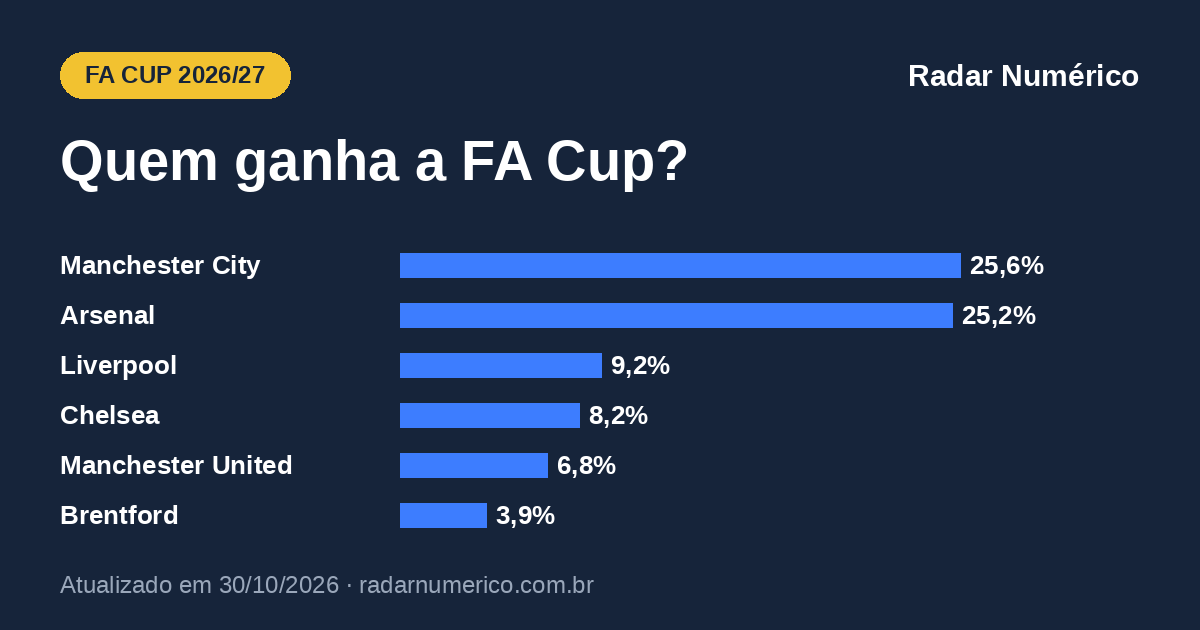
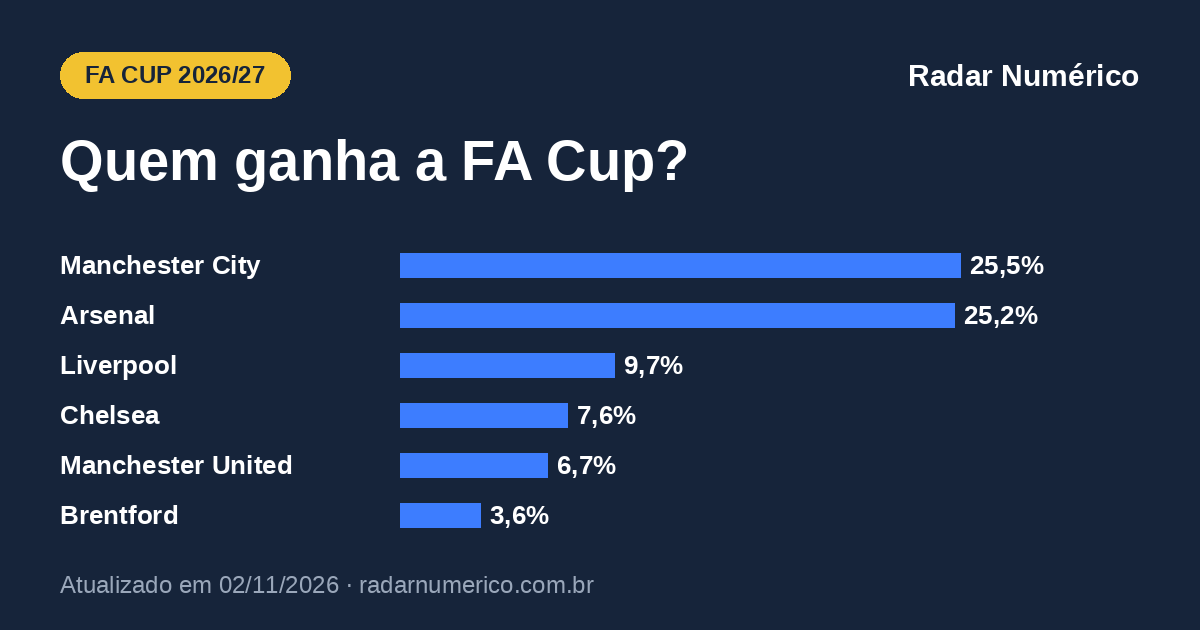
Ranking, ligas e copas europeias: atualizacao semanal 2026-11-02 (fa-cup)
Claude-Session: https://claude.ai/code/session_014c9M3pt9p9Std2Yz9ijZme

diff --git a/futebol/fa-cup/index.html b/futebol/fa-cup/index.html
@@ -13,11 +13,11 @@
 <meta property="og:title" content="FA Cup 2026/27: chances de título de cada time">
 <meta property="og:description" content="Probabilidades da FA Cup 2026/27: chance de cada time chegar às quartas, à semifinal, à final e de ser campeão.">
 <meta property="og:url" content="https://radarnumerico.com.br/futebol/fa-cup/">
-<meta property="og:image" content="https://radarnumerico.com.br/futebol/fa-cup/og.png?v=202610301128">
+<meta property="og:image" content="https://radarnumerico.com.br/futebol/fa-cup/og.png?v=202611021221">
 <meta property="og:image:width" content="1200">
 <meta property="og:image:height" content="630">
 <meta name="twitter:card" content="summary_large_image">
-<script type="application/ld+json">{"@context": "https://schema.org", "@graph": [{"@type": "WebPage", "@id": "https://radarnumerico.com.br/futebol/fa-cup/", "url": "https://radarnumerico.com.br/futebol/fa-cup/", "name": "FA Cup 2026/27: chances de título de cada time", "description": "Probabilidades da FA Cup 2026/27: chance de cada time chegar às quartas, à semifinal, à final e de ser campeão.", "inLanguage": "pt-BR", "dateModified": "2026-10-30T11:28:00-03:00", "isPartOf": {"@type": "WebSite", "name": "Radar Numérico", "url": "https://radarnumerico.com.br/"}, "about": {"@type": "Thing", "name": "FA Cup 2026/27"}}, {"@type": "BreadcrumbList", "itemListElement": [{"@type": "ListItem", "position": 1, "name": "Radar Numérico", "item": "https://radarnumerico.com.br/"}, {"@type": "ListItem", "position": 2, "name": "FA Cup 2026/27: probabilidades", "item": "https://radarnumerico.com.br/futebol/fa-cup/"}]}]}</script>
+<script type="application/ld+json">{"@context": "https://schema.org", "@graph": [{"@type": "WebPage", "@id": "https://radarnumerico.com.br/futebol/fa-cup/", "url": "https://radarnumerico.com.br/futebol/fa-cup/", "name": "FA Cup 2026/27: chances de título de cada time", "description": "Probabilidades da FA Cup 2026/27: chance de cada time chegar às quartas, à semifinal, à final e de ser campeão.", "inLanguage": "pt-BR", "dateModified": "2026-11-02T12:21:00-03:00", "isPartOf": {"@type": "WebSite", "name": "Radar Numérico", "url": "https://radarnumerico.com.br/"}, "about": {"@type": "Thing", "name": "FA Cup 2026/27"}}, {"@type": "BreadcrumbList", "itemListElement": [{"@type": "ListItem", "position": 1, "name": "Radar Numérico", "item": "https://radarnumerico.com.br/"}, {"@type": "ListItem", "position": 2, "name": "FA Cup 2026/27: probabilidades", "item": "https://radarnumerico.com.br/futebol/fa-cup/"}]}]}</script>
 <link rel="icon" type="image/png" href="/favicon.png">
 <link rel="apple-touch-icon" href="/apple-touch-icon.png">
 <link rel="preconnect" href="https://fonts.googleapis.com">
@@ -430,8 +430,8 @@ table.mzf td.bc{color:#fff}
 <header class="pg">
   <div class="kicker">Futebol · Inglaterra</div>
   <h1>FA Cup 2026/27: chances de título de cada time</h1>
-  <div class="selo" id="selo"><span>Atualizado em <b>30/10/2026 às 11h28</b></span><span>fase atual: <b>3ª fase</b></span><span>46 times vivos</span></div>
-  <p class="lede">O favorito ao título da FA Cup é o <b>Manchester City</b>, com 25,6%, seguido por Arsenal (25,2%) e Liverpool (9,2%). Calculamos, para os 46 times vivos, a chance de chegar a cada fase, simulando os jogos já marcados e o sorteio das fases seguintes 20 mil vezes. O campeão ganha vaga na Liga Europa.</p>
+  <div class="selo" id="selo"><span>Atualizado em <b>02/11/2026 às 12h21</b></span><span>fase atual: <b>3ª fase</b></span><span>44 times vivos</span></div>
+  <p class="lede">O favorito ao título da FA Cup é o <b>Manchester City</b>, com 25,5%, seguido por Arsenal (25,2%) e Liverpool (9,7%). Calculamos, para os 44 times vivos, a chance de chegar a cada fase, simulando os jogos já marcados e o sorteio das fases seguintes 20 mil vezes. O campeão ganha vaga na Liga Europa.</p>
 </header>
 
 <section class="g" id="s-trilha">
@@ -489,7 +489,7 @@ table.mzf td.bc{color:#fff}
 
 <div class="metod">
   <p class="marca">Radar Numérico</p>
-  <p id="rodape">Probabilidades da FA Cup 2026/27 atualizadas em 30/10/2026 às 11h28.</p>
+  <p id="rodape">Probabilidades da FA Cup 2026/27 atualizadas em 02/11/2026 às 12h21.</p>
   <p>Como calculamos: um algoritmo desenvolvido pelo economista Augusto Pellegrini estima a força de cada time a partir das cotações de mercado de todos os seus jogos recentes, em todas as competições. Simulamos a copa 20 mil vezes: os jogos já marcados e, depois, o sorteio de cada fase. Empate em jogo único vai à prorrogação e aos pênaltis. Fonte: Radar Numérico.</p>
 </div>
 </main>
@@ -498,7 +498,7 @@ table.mzf td.bc{color:#fff}
 <div id="tip" role="tooltip"></div>
 <div id="toast" role="status"></div>
 <script>
-const D = {"slug":"fa-cup","nome":"FA Cup","gerado_em":"2026-10-30T11:28","tams":[64,32,16,8,4,2,1],"rot":["3ª fase","4ª fase","5ª fase","Quartas","Semifinal","Final","Campeão"],"atual_rot":"3ª fase","cai_antes":"","n_vivos":46,"times":{"Middlesbrough":{"id":"2307","fases":[1.0,0.6554,0.372,0.1693,0.0626,0.0182,0.0052],"campeao":0.0052,"forca":53.4,"cab":false},"Bolton Wanderers":{"id":"2312","fases":[1.0,0.4043,0.1251,0.0263,0.0044,0.0004,0.0],"campeao":0.0,"forca":38.2,"cab":false},"Bradford City":{"id":"2321","fases":[1.0,0.4002,0.1184,0.0264,0.0043,0.0003,0.0],"campeao":0.0,"forca":38.2,"cab":false},"Blackburn Rovers":{"id":"2322","fases":[1.0,0.4256,0.1364,0.0352,0.0059,0.0006,0.0001],"campeao":0.0001,"forca":39.5,"cab":false},"Sheffield United":{"id":"3863","fases":[1.0,0.4737,0.1744,0.049,0.0088,0.0011,0.0001],"campeao":0.0001,"forca":42.3,"cab":false},"Bristol City":{"id":"2328","fases":[1.0,0.5235,0.2207,0.0687,0.0176,0.0027,0.0006],"campeao":0.0006,"forca":45.4,"cab":false},"Oxford United":{"id":"2329","fases":[1.0,0.4097,0.1288,0.028,0.0044,0.0002,0.0],"campeao":0.0,"forca":38.5,"cab":false},"Coventry City":{"id":"2330","fases":[1.0,0.5949,0.2928,0.1115,0.0329,0.0065,0.0009],"campeao":0.0009,"forca":49.4,"cab":false},"Cardiff City":{"id":"2331","fases":[1.0,0.4987,0.1968,0.0587,0.0129,0.0022,0.0001],"campeao":0.0001,"forca":43.6,"cab":false},"Brentford":{"id":"2333","fases":[1.0,0.7954,0.5702,0.3656,0.2062,0.098,0.0394],"campeao":0.0394,"forca":63.1,"cab":false},"Ipswich":{"id":"2336","fases":[1.0,0.622,0.327,0.1378,0.0454,0.0121,0.0022],"campeao":0.0022,"forca":51.0,"cab":false},"Wolverhampton":{"id":"2337","fases":[1.0,0.5607,0.2595,0.0938,0.0249,0.0046,0.0004],"campeao":0.0004,"forca":47.1,"cab":false},"Wrexham":{"id":"3875","fases":[1.0,0.512,0.2142,0.0674,0.0149,0.0026,0.0002],"campeao":0.0002,"forca":44.6,"cab":false},"Bournemouth":{"id":"2342","fases":[1.0,0.76,0.5247,0.3128,0.1565,0.0658,0.024],"campeao":0.024,"forca":60.5,"cab":false},"Watford":{"id":"2344","fases":[1.0,0.4853,0.1819,0.0506,0.0094,0.001,0.0001],"campeao":0.0001,"forca":42.7,"cab":false},"Portsmouth":{"id":"2345","fases":[1.0,0.4188,0.1348,0.0324,0.0063,0.0008,0.0001],"campeao":0.0001,"forca":39.3,"cab":false},"Millwall":{"id":"2347","fases":[1.0,0.4575,0.1606,0.0404,0.0066,0.0009,0.0001],"campeao":0.0001,"forca":41.1,"cab":false},"Burnley":{"id":"2352","fases":[1.0,0.5055,0.2016,0.0635,0.0146,0.0022,0.0006],"campeao":0.0006,"forca":44.0,"cab":false},"Chelsea":{"id":"2354","fases":[1.0,0.8331,0.6447,0.4543,0.285,0.163,0.0819],"campeao":0.0819,"forca":66.8,"cab":false},"Manchester United":{"id":"2356","fases":[1.0,0.8305,0.6352,0.4329,0.2668,0.1454,0.0676],"campeao":0.0676,"forca":65.9,"cab":false},"Swansea City":{"id":"2358","fases":[1.0,0.4334,0.1478,0.036,0.0062,0.0008,0.0001],"campeao":0.0001,"forca":40.1,"cab":false},"Stoke City":{"id":"2359","fases":[1.0,0.4856,0.187,0.053,0.0106,0.0017,0.0001],"campeao":0.0001,"forca":43.0,"cab":false},"Aston Villa":{"id":"2361","fases":[1.0,0.7443,0.4985,0.285,0.1411,0.0567,0.0175],"campeao":0.0175,"forca":59.5,"cab":false},"West Bromwich Albion":{"id":"2363","fases":[1.0,0.4733,0.1743,0.0469,0.0085,0.0009,0.0001],"campeao":0.0001,"forca":42.2,"cab":false},"Sunderland":{"id":"2364","fases":[1.0,0.6885,0.4141,0.2099,0.0832,0.0272,0.0081],"campeao":0.0081,"forca":55.5,"cab":false},"West Ham":{"id":"2365","fases":[1.0,0.6773,0.3967,0.1938,0.0729,0.0226,0.0064],"campeao":0.0064,"forca":54.9,"cab":false},"Tottenham":{"id":"2366","fases":[1.0,0.7593,0.5134,0.3019,0.1512,0.0624,0.0198],"campeao":0.0198,"forca":60.3,"cab":false},"Stockport County":{"id":"3904","fases":[1.0,0.4315,0.1488,0.0352,0.0063,0.0008,0.0001],"campeao":0.0001,"forca":40.5,"cab":false},"Charlton Athletic":{"id":"2390","fases":[1.0,0.4004,0.1235,0.0262,0.0036,0.0002,0.0],"campeao":0.0,"forca":38.1,"cab":false},"Fulham":{"id":"2392","fases":[1.0,0.7222,0.4558,0.2427,0.1061,0.0367,0.0121],"campeao":0.0121,"forca":57.2,"cab":false},"Birmingham":{"id":"2393","fases":[1.0,0.5828,0.2738,0.1001,0.0305,0.0062,0.0011],"campeao":0.0011,"forca":48.5,"cab":false},"Leeds":{"id":"2394","fases":[1.0,0.7349,0.4775,0.2636,0.1217,0.0468,0.0144],"campeao":0.0144,"forca":58.6,"cab":false},"Nottingham Forest":{"id":"2395","fases":[1.0,0.7046,0.4293,0.2207,0.0945,0.0316,0.0089],"campeao":0.0089,"forca":56.3,"cab":false},"Norwich":{"id":"2411","fases":[1.0,0.5187,0.2179,0.0694,0.0151,0.0019,0.0003],"campeao":0.0003,"forca":45.0,"cab":false},"Derby County":{"id":"1162","fases":[1.0,0.4374,0.1416,0.0355,0.0066,0.0006,0.0001],"campeao":0.0001,"forca":39.9,"cab":false},"Queens Park Rangers":{"id":"1163","fases":[1.0,0.4654,0.1696,0.0448,0.0083,0.0011,0.0002],"campeao":0.0002,"forca":41.7,"cab":false},"Brighton":{"id":"2497","fases":[1.0,0.7829,0.5516,0.3456,0.1893,0.0896,0.0348],"campeao":0.0348,"forca":62.3,"cab":false},"Leicester City":{"id":"2525","fases":[1.0,0.4594,0.1613,0.0429,0.008,0.001,0.0001],"campeao":0.0001,"forca":41.5,"cab":false},"Everton":{"id":"2526","fases":[1.0,0.7191,0.447,0.2404,0.106,0.039,0.0112],"campeao":0.0112,"forca":57.3,"cab":false},"Newcastle":{"id":"2527","fases":[1.0,0.7833,0.5531,0.3456,0.1858,0.0872,0.0333],"campeao":0.0333,"forca":62.3,"cab":false},"Manchester City":{"id":"2528","fases":[1.0,0.9053,0.7873,0.6506,0.505,0.3729,0.2559],"campeao":0.2559,"forca":74.7,"cab":false},"Arsenal":{"id":"2536","fases":[1.0,0.9081,0.786,0.6451,0.499,0.3662,0.2525],"campeao":0.2525,"forca":74.6,"cab":false},"Crystal Palace":{"id":"2537","fases":[1.0,0.6785,0.3936,0.1878,0.0737,0.0225,0.0051],"campeao":0.0051,"forca":54.4,"cab":false},"Liverpool":{"id":"2538","fases":[1.0,0.8485,0.6704,0.4869,0.321,0.1842,0.0921],"campeao":0.0921,"forca":68.0,"cab":false},"Southampton":{"id":"2539","fases":[1.0,0.6005,0.2989,0.1182,0.036,0.0083,0.0017],"campeao":0.0017,"forca":49.6,"cab":false},"Hull City":{"id":"2540","fases":[1.0,0.5165,0.2124,0.0668,0.0139,0.0022,0.0003],"campeao":0.0003,"forca":44.8,"cab":false}},"ordem":["Manchester City","Arsenal","Liverpool","Chelsea","Manchester United","Brentford","Brighton","Newcastle","Bournemouth","Tottenham","Aston Villa","Leeds","Fulham","Everton","Nottingham Forest","Sunderland","West Ham","Middlesbrough","Crystal Palace","Ipswich","Southampton","Birmingham","Coventry City","Bristol City","Burnley","Wolverhampton","Norwich","Hull City","Wrexham","Queens Park Rangers","Cardiff City","Stoke City","Watford","Sheffield United","West Bromwich Albion","Leicester City","Millwall","Stockport County","Swansea City","Derby County","Blackburn Rovers","Portsmouth","Oxford United","Bolton Wanderers","Bradford City","Charlton Athletic"],"confrontos":[],"finais":[{"a":"Manchester City","b":"Arsenal","p":0.0918,"pa":0.5033},{"a":"Manchester City","b":"Liverpool","p":0.0429,"pa":0.6573},{"a":"Arsenal","b":"Liverpool","p":0.0408,"pa":0.6748},{"a":"Chelsea","b":"Manchester City","p":0.0367,"pa":0.3615},{"a":"Chelsea","b":"Arsenal","p":0.0365,"pa":0.3466},{"a":"Manchester United","b":"Manchester City","p":0.033,"pa":0.3091}],"outros":0.0001,"matriz":{"tipo":"sorteio","linhas":[["Manchester City",0.3729],["Arsenal",0.3662],["Liverpool",0.1842],["Chelsea",0.163],["Manchester United",0.1454]],"colunas":[["Arsenal",0.3662],["Liverpool",0.1842],["Chelsea",0.163],["Manchester United",0.1454],["Brentford",0.098]],"cel":[[0.0918,0.0429,0.0367,0.033,0.0228],[null,0.0408,0.0365,0.0316,0.0205],[null,null,0.015,0.0143,0.0089],[null,null,null,0.0109,0.0083],[null,null,null,null,0.0066]]},"chave":{"fases":["4ª fase","5ª fase","Quartas","Semifinal","Final"],"jogos":[[null,null],[null,null],[null,null],[null,null],[null,null],[null,null],[null,null],[null,null],[null,null],[null,null],[null,null],[null,null],[null,null],[null,null],[null,null],[null,null]],"atual":false,"p":null,"fixa":false},"SIGLA":{"Middlesbrough":"MID","Bolton Wanderers":"BOL","Bradford City":"BRA","Blackburn Rovers":"BLA","Sheffield United":"SHE","Bristol City":"BRI","Oxford United":"OXF","Coventry City":"COV","Cardiff City":"CAR","Brentford":"BRE","Ipswich":"IPS","Wolverhampton":"WOL","Wrexham":"WRE","Bournemouth":"BOU","Watford":"WAT","Portsmouth":"POR","Millwall":"MIL","Burnley":"BUR","Chelsea":"CHE","Manchester United":"MUN","Swansea City":"SWA","Stoke City":"STO","Aston Villa":"AVL","West Bromwich Albion":"WES","Sunderland":"SUN","West Ham":"WES","Tottenham":"TOT","Stockport County":"STO","Charlton Athletic":"CHA","Fulham":"FUL","Birmingham":"BIR","Leeds":"LEE","Nottingham Forest":"NOT","Norwich":"NOR","Derby County":"DER","Queens Park Rangers":"QUE","Brighton":"BRI","Leicester City":"LEI","Everton":"EVE","Newcastle":"NEW","Manchester City":"MCI","Arsenal":"ARS","Crystal Palace":"CRY","Liverpool":"LIV","Southampton":"SOU","Hull City":"HUL"},"SLUG":{"Middlesbrough":"middlesbrough","Bolton Wanderers":"bolton-wanderers","Bradford City":"bradford-city","Blackburn Rovers":"blackburn-rovers","Sheffield United":"sheffield-united","Bristol City":"bristol-city","Oxford United":"oxford-united","Coventry City":"coventry-city","Cardiff City":"cardiff-city","Brentford":"brentford","Ipswich":"ipswich","Wolverhampton":"wolverhampton","Wrexham":"wrexham","Bournemouth":"bournemouth","Watford":"watford","Portsmouth":"portsmouth","Millwall":"millwall","Burnley":"burnley","Chelsea":"chelsea","Manchester United":"manchester-united","Swansea City":"swansea-city","Stoke City":"stoke-city","Aston Villa":"aston-villa","West Bromwich Albion":"west-bromwich-albion","Sunderland":"sunderland","West Ham":"west-ham","Tottenham":"tottenham","Stockport County":"stockport-county","Charlton Athletic":"charlton-athletic","Fulham":"fulham","Birmingham":"birmingham","Leeds":"leeds","Nottingham Forest":"nottingham-forest","Norwich":"norwich","Derby County":"derby-county","Queens Park Rangers":"queens-park-rangers","Brighton":"brighton","Leicester City":"leicester-city","Everton":"everton","Newcastle":"newcastle","Manchester City":"manchester-city","Arsenal":"arsenal","Crystal Palace":"crystal-palace","Liverpool":"liverpool","Southampton":"southampton","Hull City":"hull-city"},"CORES":{"Middlesbrough":["#00843D","#FFFFFF"],"Bolton Wanderers":["#00843D","#FFFFFF"],"Bradford City":["#F2C230","#FFFFFF"],"Blackburn Rovers":["#5B2C83","#FFFFFF"],"Sheffield United":["#F2C230","#FFFFFF"],"Bristol City":["#111111","#FFFFFF"],"Oxford United":["#F2C230","#FFFFFF"],"Coventry City":["#5B2C83","#FFFFFF"],"Cardiff City":["#E35205","#FFFFFF"],"Brentford":["#6C1D45","#FFFFFF"],"Ipswich":["#3EA6DD","#FFFFFF"],"Wolverhampton":["#E35205","#FFFFFF"],"Wrexham":["#0055A4","#FFFFFF"],"Bournemouth":["#111111","#FFFFFF"],"Watford":["#3EA6DD","#FFFFFF"],"Portsmouth":["#00843D","#FFFFFF"],"Millwall":["#16243A","#FFFFFF"],"Burnley":["#3EA6DD","#FFFFFF"],"Chelsea":["#00843D","#FFFFFF"],"Manchester United":["#DA291C","#FBE122"],"Swansea City":["#00843D","#FFFFFF"],"Stoke City":["#5B2C83","#FFFFFF"],"Aston Villa":["#670E36","#95BFE5"],"West Bromwich Albion":["#3EA6DD","#FFFFFF"],"Sunderland":["#16243A","#FFFFFF"],"West Ham":["#5B2C83","#FFFFFF"],"Tottenham":["#E35205","#FFFFFF"],"Stockport County":["#00843D","#FFFFFF"],"Charlton Athletic":["#00843D","#FFFFFF"],"Fulham":["#F2C230","#FFFFFF"],"Birmingham":["#0055A4","#FFFFFF"],"Leeds":["#00843D","#FFFFFF"],"Nottingham Forest":["#E35205","#FFFFFF"],"Norwich":["#16243A","#FFFFFF"],"Derby County":["#111111","#FFFFFF"],"Queens Park Rangers":["#5B2C83","#FFFFFF"],"Brighton":["#5B2C83","#FFFFFF"],"Leicester City":["#5B2C83","#FFFFFF"],"Everton":["#5B2C83","#FFFFFF"],"Newcastle":["#6C1D45","#FFFFFF"],"Manchester City":["#6CABDD","#1C2C5B"],"Arsenal":["#EF0107","#FFFFFF"],"Crystal Palace":["#0055A4","#FFFFFF"],"Liverpool":["#C8102E","#00B2A9"],"Southampton":["#111111","#FFFFFF"],"Hull City":["#111111","#FFFFFF"]},"vaga":"Liga Europa","liga":"premier-league","liga_nome":"Premier League","nota_fase":"Os times da Premier League e da Championship entram na 3ª fase, em janeiro. A chave parte dos 64 times dessa fase; os clubes das divisões de baixo que vão chegar até lá ainda estão nas fases anteriores e entram na conta como times genéricos.","final":"Final em Wembley, em maio de 2027, em jogo único.","ultimo_jogo":{"data":"2026-10-20","hora":"15:45","m":"Harrogate Town","v":"Bury","gm":3,"gv":1,"rodada":"Qualification Round 4"}};
+const D = {"slug":"fa-cup","nome":"FA Cup","gerado_em":"2026-11-02T12:21","tams":[64,32,16,8,4,2,1],"rot":["3ª fase","4ª fase","5ª fase","Quartas","Semifinal","Final","Campeão"],"atual_rot":"3ª fase","cai_antes":"","n_vivos":44,"times":{"Middlesbrough":{"id":"2307","fases":[1.0,0.6623,0.3746,0.1681,0.06,0.018,0.0043],"campeao":0.0043,"forca":53.1,"cab":false},"Blackburn Rovers":{"id":"2322","fases":[1.0,0.4515,0.1552,0.0374,0.0066,0.0009,0.0001],"campeao":0.0001,"forca":40.3,"cab":false},"Sheffield United":{"id":"3863","fases":[1.0,0.4879,0.1814,0.0502,0.01,0.0014,0.0001],"campeao":0.0001,"forca":42.4,"cab":false},"Bristol City":{"id":"2328","fases":[1.0,0.4975,0.1991,0.058,0.0102,0.0016,0.0003],"campeao":0.0003,"forca":43.3,"cab":false},"Oxford United":{"id":"2329","fases":[1.0,0.4285,0.1395,0.0324,0.0052,0.0006,0.0001],"campeao":0.0001,"forca":39.1,"cab":false},"Coventry City":{"id":"2330","fases":[1.0,0.6004,0.2994,0.1163,0.0352,0.0084,0.0019],"campeao":0.0019,"forca":49.4,"cab":false},"Cardiff City":{"id":"2331","fases":[1.0,0.5182,0.2127,0.0648,0.0152,0.0024,0.0003],"campeao":0.0003,"forca":44.4,"cab":false},"Brentford":{"id":"2333","fases":[1.0,0.7926,0.5667,0.3624,0.1964,0.0914,0.0364],"campeao":0.0364,"forca":62.5,"cab":false},"Ipswich":{"id":"2336","fases":[1.0,0.6332,0.3287,0.1351,0.0408,0.0095,0.002],"campeao":0.002,"forca":50.9,"cab":false},"Wolverhampton":{"id":"2337","fases":[1.0,0.5648,0.2586,0.0891,0.023,0.0043,0.0007],"campeao":0.0007,"forca":47.0,"cab":false},"Wrexham":{"id":"3875","fases":[1.0,0.5261,0.216,0.0683,0.0159,0.0025,0.0003],"campeao":0.0003,"forca":44.9,"cab":false},"Bournemouth":{"id":"2342","fases":[1.0,0.7621,0.5174,0.3125,0.155,0.0628,0.0232],"campeao":0.0232,"forca":60.3,"cab":false},"Watford":{"id":"2344","fases":[1.0,0.4291,0.1375,0.0297,0.0051,0.0005,0.0],"campeao":0.0,"forca":39.1,"cab":false},"Portsmouth":{"id":"2345","fases":[1.0,0.4288,0.1389,0.0323,0.006,0.0008,0.0001],"campeao":0.0001,"forca":39.2,"cab":false},"Millwall":{"id":"2347","fases":[1.0,0.451,0.1537,0.0401,0.0077,0.0013,0.0001],"campeao":0.0001,"forca":40.6,"cab":false},"Burnley":{"id":"2352","fases":[1.0,0.513,0.2102,0.06,0.0128,0.0016,0.0003],"campeao":0.0003,"forca":43.9,"cab":false},"Chelsea":{"id":"2354","fases":[1.0,0.8397,0.6508,0.4525,0.2802,0.1555,0.0762],"campeao":0.0762,"forca":66.6,"cab":false},"Manchester United":{"id":"2356","fases":[1.0,0.8321,0.6354,0.4351,0.2673,0.1451,0.067],"campeao":0.067,"forca":65.8,"cab":false},"Swansea City":{"id":"2358","fases":[1.0,0.4374,0.1486,0.0367,0.0065,0.0008,0.0001],"campeao":0.0001,"forca":39.7,"cab":false},"Stoke City":{"id":"2359","fases":[1.0,0.5043,0.2021,0.057,0.0118,0.0021,0.0003],"campeao":0.0003,"forca":43.7,"cab":false},"Aston Villa":{"id":"2361","fases":[1.0,0.7499,0.5068,0.2923,0.144,0.0564,0.0199],"campeao":0.0199,"forca":59.5,"cab":false},"West Bromwich Albion":{"id":"2363","fases":[1.0,0.4632,0.1697,0.0435,0.0083,0.0009,0.0001],"campeao":0.0001,"forca":41.4,"cab":false},"Sunderland":{"id":"2364","fases":[1.0,0.698,0.4224,0.2105,0.0823,0.0276,0.0069],"campeao":0.0069,"forca":55.3,"cab":false},"West Ham":{"id":"2365","fases":[1.0,0.6839,0.4018,0.1977,0.0809,0.0253,0.0062],"campeao":0.0062,"forca":54.7,"cab":false},"Tottenham":{"id":"2366","fases":[1.0,0.7682,0.5252,0.309,0.1585,0.0655,0.0232],"campeao":0.0232,"forca":60.4,"cab":false},"Stockport County":{"id":"3904","fases":[1.0,0.4524,0.1574,0.0398,0.0067,0.0008,0.0001],"campeao":0.0001,"forca":40.4,"cab":false},"Charlton Athletic":{"id":"2390","fases":[1.0,0.4266,0.1339,0.0314,0.0047,0.0006,0.0],"campeao":0.0,"forca":39.0,"cab":false},"Fulham":{"id":"2392","fases":[1.0,0.7273,0.4556,0.2392,0.1055,0.0418,0.0129],"campeao":0.0129,"forca":57.1,"cab":false},"Birmingham":{"id":"2393","fases":[1.0,0.5752,0.2652,0.0993,0.0278,0.0066,0.001],"campeao":0.001,"forca":48.0,"cab":false},"Leeds":{"id":"2394","fases":[1.0,0.7399,0.4797,0.2674,0.1245,0.048,0.0146],"campeao":0.0146,"forca":58.4,"cab":false},"Nottingham Forest":{"id":"2395","fases":[1.0,0.7111,0.4376,0.2266,0.0961,0.033,0.0088],"campeao":0.0088,"forca":56.5,"cab":false},"Norwich":{"id":"2411","fases":[1.0,0.5354,0.23,0.0759,0.0173,0.0034,0.0003],"campeao":0.0003,"forca":45.3,"cab":false},"Derby County":{"id":"1162","fases":[1.0,0.4536,0.1599,0.0386,0.0069,0.001,0.0001],"campeao":0.0001,"forca":40.2,"cab":false},"Queens Park Rangers":{"id":"1163","fases":[1.0,0.4554,0.162,0.043,0.0085,0.001,0.0001],"campeao":0.0001,"forca":41.0,"cab":false},"Brighton":{"id":"2497","fases":[1.0,0.7884,0.5677,0.3585,0.1984,0.0927,0.035],"campeao":0.035,"forca":62.3,"cab":false},"Leicester City":{"id":"2525","fases":[1.0,0.4469,0.154,0.0394,0.0072,0.0008,0.0],"campeao":0.0,"forca":40.5,"cab":false},"Everton":{"id":"2526","fases":[1.0,0.7239,0.4583,0.246,0.1077,0.0383,0.0115],"campeao":0.0115,"forca":57.3,"cab":false},"Newcastle":{"id":"2527","fases":[1.0,0.7907,0.5658,0.358,0.194,0.0901,0.0345],"campeao":0.0345,"forca":62.2,"cab":false},"Manchester City":{"id":"2528","fases":[1.0,0.9039,0.7858,0.6472,0.4997,0.3668,0.2548],"campeao":0.2548,"forca":74.4,"cab":false},"Arsenal":{"id":"2536","fases":[1.0,0.9067,0.7856,0.645,0.5012,0.3661,0.2523],"campeao":0.2523,"forca":74.4,"cab":false},"Crystal Palace":{"id":"2537","fases":[1.0,0.6833,0.3977,0.1906,0.0738,0.0229,0.0055],"campeao":0.0055,"forca":54.1,"cab":false},"Liverpool":{"id":"2538","fases":[1.0,0.8517,0.67,0.4857,0.3214,0.1895,0.0974],"campeao":0.0974,"forca":67.8,"cab":false},"Southampton":{"id":"2539","fases":[1.0,0.5887,0.2814,0.1074,0.0306,0.0063,0.0011],"campeao":0.0011,"forca":48.6,"cab":false},"Hull City":{"id":"2540","fases":[1.0,0.5272,0.2267,0.0729,0.0165,0.0028,0.0003],"campeao":0.0003,"forca":45.2,"cab":false}},"ordem":["Manchester City","Arsenal","Liverpool","Chelsea","Manchester United","Brentford","Brighton","Newcastle","Tottenham","Bournemouth","Aston Villa","Leeds","Fulham","Everton","Nottingham Forest","Sunderland","West Ham","Crystal Palace","Middlesbrough","Ipswich","Coventry City","Southampton","Birmingham","Wolverhampton","Norwich","Hull City","Wrexham","Cardiff City","Burnley","Stoke City","Bristol City","Sheffield United","West Bromwich Albion","Queens Park Rangers","Millwall","Stockport County","Blackburn Rovers","Derby County","Swansea City","Portsmouth","Oxford United","Leicester City","Watford","Charlton Athletic"],"confrontos":[],"finais":[{"a":"Manchester City","b":"Arsenal","p":0.0868,"pa":0.506},{"a":"Manchester City","b":"Liverpool","p":0.043,"pa":0.6523},{"a":"Arsenal","b":"Liverpool","p":0.0417,"pa":0.6619},{"a":"Chelsea","b":"Manchester City","p":0.0344,"pa":0.314},{"a":"Chelsea","b":"Arsenal","p":0.0344,"pa":0.3532},{"a":"Manchester United","b":"Arsenal","p":0.0322,"pa":0.3075}],"outros":0.0,"matriz":{"tipo":"sorteio","linhas":[["Manchester City",0.3668],["Arsenal",0.3661],["Liverpool",0.1895],["Chelsea",0.1555],["Manchester United",0.1451]],"colunas":[["Arsenal",0.3661],["Liverpool",0.1895],["Chelsea",0.1555],["Manchester United",0.1451],["Brighton",0.0927]],"cel":[[0.0868,0.043,0.0344,0.0313,0.0209],[null,0.0417,0.0344,0.0322,0.0215],[null,null,0.014,0.0143,0.0092],[null,null,null,0.0126,0.0063],[null,null,null,null,0.0065]]},"chave":{"fases":["4ª fase","5ª fase","Quartas","Semifinal","Final"],"jogos":[[null,null],[null,null],[null,null],[null,null],[null,null],[null,null],[null,null],[null,null],[null,null],[null,null],[null,null],[null,null],[null,null],[null,null],[null,null],[null,null]],"atual":false,"p":null,"fixa":false},"SIGLA":{"Middlesbrough":"MID","Blackburn Rovers":"BLA","Sheffield United":"SHE","Bristol City":"BRI","Oxford United":"OXF","Coventry City":"COV","Cardiff City":"CAR","Brentford":"BRE","Ipswich":"IPS","Wolverhampton":"WOL","Wrexham":"WRE","Bournemouth":"BOU","Watford":"WAT","Portsmouth":"POR","Millwall":"MIL","Burnley":"BUR","Chelsea":"CHE","Manchester United":"MUN","Swansea City":"SWA","Stoke City":"STO","Aston Villa":"AVL","West Bromwich Albion":"WES","Sunderland":"SUN","West Ham":"WES","Tottenham":"TOT","Stockport County":"STO","Charlton Athletic":"CHA","Fulham":"FUL","Birmingham":"BIR","Leeds":"LEE","Nottingham Forest":"NOT","Norwich":"NOR","Derby County":"DER","Queens Park Rangers":"QUE","Brighton":"BRI","Leicester City":"LEI","Everton":"EVE","Newcastle":"NEW","Manchester City":"MCI","Arsenal":"ARS","Crystal Palace":"CRY","Liverpool":"LIV","Southampton":"SOU","Hull City":"HUL"},"SLUG":{"Middlesbrough":"middlesbrough","Blackburn Rovers":"blackburn-rovers","Sheffield United":"sheffield-united","Bristol City":"bristol-city","Oxford United":"oxford-united","Coventry City":"coventry-city","Cardiff City":"cardiff-city","Brentford":"brentford","Ipswich":"ipswich","Wolverhampton":"wolverhampton","Wrexham":"wrexham","Bournemouth":"bournemouth","Watford":"watford","Portsmouth":"portsmouth","Millwall":"millwall","Burnley":"burnley","Chelsea":"chelsea","Manchester United":"manchester-united","Swansea City":"swansea-city","Stoke City":"stoke-city","Aston Villa":"aston-villa","West Bromwich Albion":"west-bromwich-albion","Sunderland":"sunderland","West Ham":"west-ham","Tottenham":"tottenham","Stockport County":"stockport-county","Charlton Athletic":"charlton-athletic","Fulham":"fulham","Birmingham":"birmingham","Leeds":"leeds","Nottingham Forest":"nottingham-forest","Norwich":"norwich","Derby County":"derby-county","Queens Park Rangers":"queens-park-rangers","Brighton":"brighton","Leicester City":"leicester-city","Everton":"everton","Newcastle":"newcastle","Manchester City":"manchester-city","Arsenal":"arsenal","Crystal Palace":"crystal-palace","Liverpool":"liverpool","Southampton":"southampton","Hull City":"hull-city"},"CORES":{"Middlesbrough":["#00843D","#FFFFFF"],"Blackburn Rovers":["#5B2C83","#FFFFFF"],"Sheffield United":["#F2C230","#FFFFFF"],"Bristol City":["#111111","#FFFFFF"],"Oxford United":["#F2C230","#FFFFFF"],"Coventry City":["#5B2C83","#FFFFFF"],"Cardiff City":["#E35205","#FFFFFF"],"Brentford":["#6C1D45","#FFFFFF"],"Ipswich":["#3EA6DD","#FFFFFF"],"Wolverhampton":["#E35205","#FFFFFF"],"Wrexham":["#0055A4","#FFFFFF"],"Bournemouth":["#111111","#FFFFFF"],"Watford":["#3EA6DD","#FFFFFF"],"Portsmouth":["#00843D","#FFFFFF"],"Millwall":["#16243A","#FFFFFF"],"Burnley":["#3EA6DD","#FFFFFF"],"Chelsea":["#00843D","#FFFFFF"],"Manchester United":["#DA291C","#FBE122"],"Swansea City":["#00843D","#FFFFFF"],"Stoke City":["#5B2C83","#FFFFFF"],"Aston Villa":["#670E36","#95BFE5"],"West Bromwich Albion":["#3EA6DD","#FFFFFF"],"Sunderland":["#16243A","#FFFFFF"],"West Ham":["#5B2C83","#FFFFFF"],"Tottenham":["#E35205","#FFFFFF"],"Stockport County":["#00843D","#FFFFFF"],"Charlton Athletic":["#00843D","#FFFFFF"],"Fulham":["#F2C230","#FFFFFF"],"Birmingham":["#0055A4","#FFFFFF"],"Leeds":["#00843D","#FFFFFF"],"Nottingham Forest":["#E35205","#FFFFFF"],"Norwich":["#16243A","#FFFFFF"],"Derby County":["#111111","#FFFFFF"],"Queens Park Rangers":["#5B2C83","#FFFFFF"],"Brighton":["#5B2C83","#FFFFFF"],"Leicester City":["#5B2C83","#FFFFFF"],"Everton":["#5B2C83","#FFFFFF"],"Newcastle":["#6C1D45","#FFFFFF"],"Manchester City":["#6CABDD","#1C2C5B"],"Arsenal":["#EF0107","#FFFFFF"],"Crystal Palace":["#0055A4","#FFFFFF"],"Liverpool":["#C8102E","#00B2A9"],"Southampton":["#111111","#FFFFFF"],"Hull City":["#111111","#FFFFFF"]},"vaga":"Liga Europa","liga":"premier-league","liga_nome":"Premier League","nota_fase":"Os times da Premier League e da Championship entram na 3ª fase, em janeiro. A chave parte dos 64 times dessa fase; os clubes das divisões de baixo que vão chegar até lá ainda estão nas fases anteriores e entram na conta como times genéricos.","final":"Final em Wembley, em maio de 2027, em jogo único.","ultimo_jogo":{"data":"2026-10-20","hora":"15:45","m":"Harrogate Town","v":"Bury","gm":3,"gv":1,"rodada":"Qualification Round 4"}};
 const T = D.times, ORD = D.ordem;
 const $ = s => document.querySelector(s);
 const SLUG = D.SLUG, SIGLA = D.SIGLA, CORES = D.CORES, ESC_DIR = 'escudos/';
